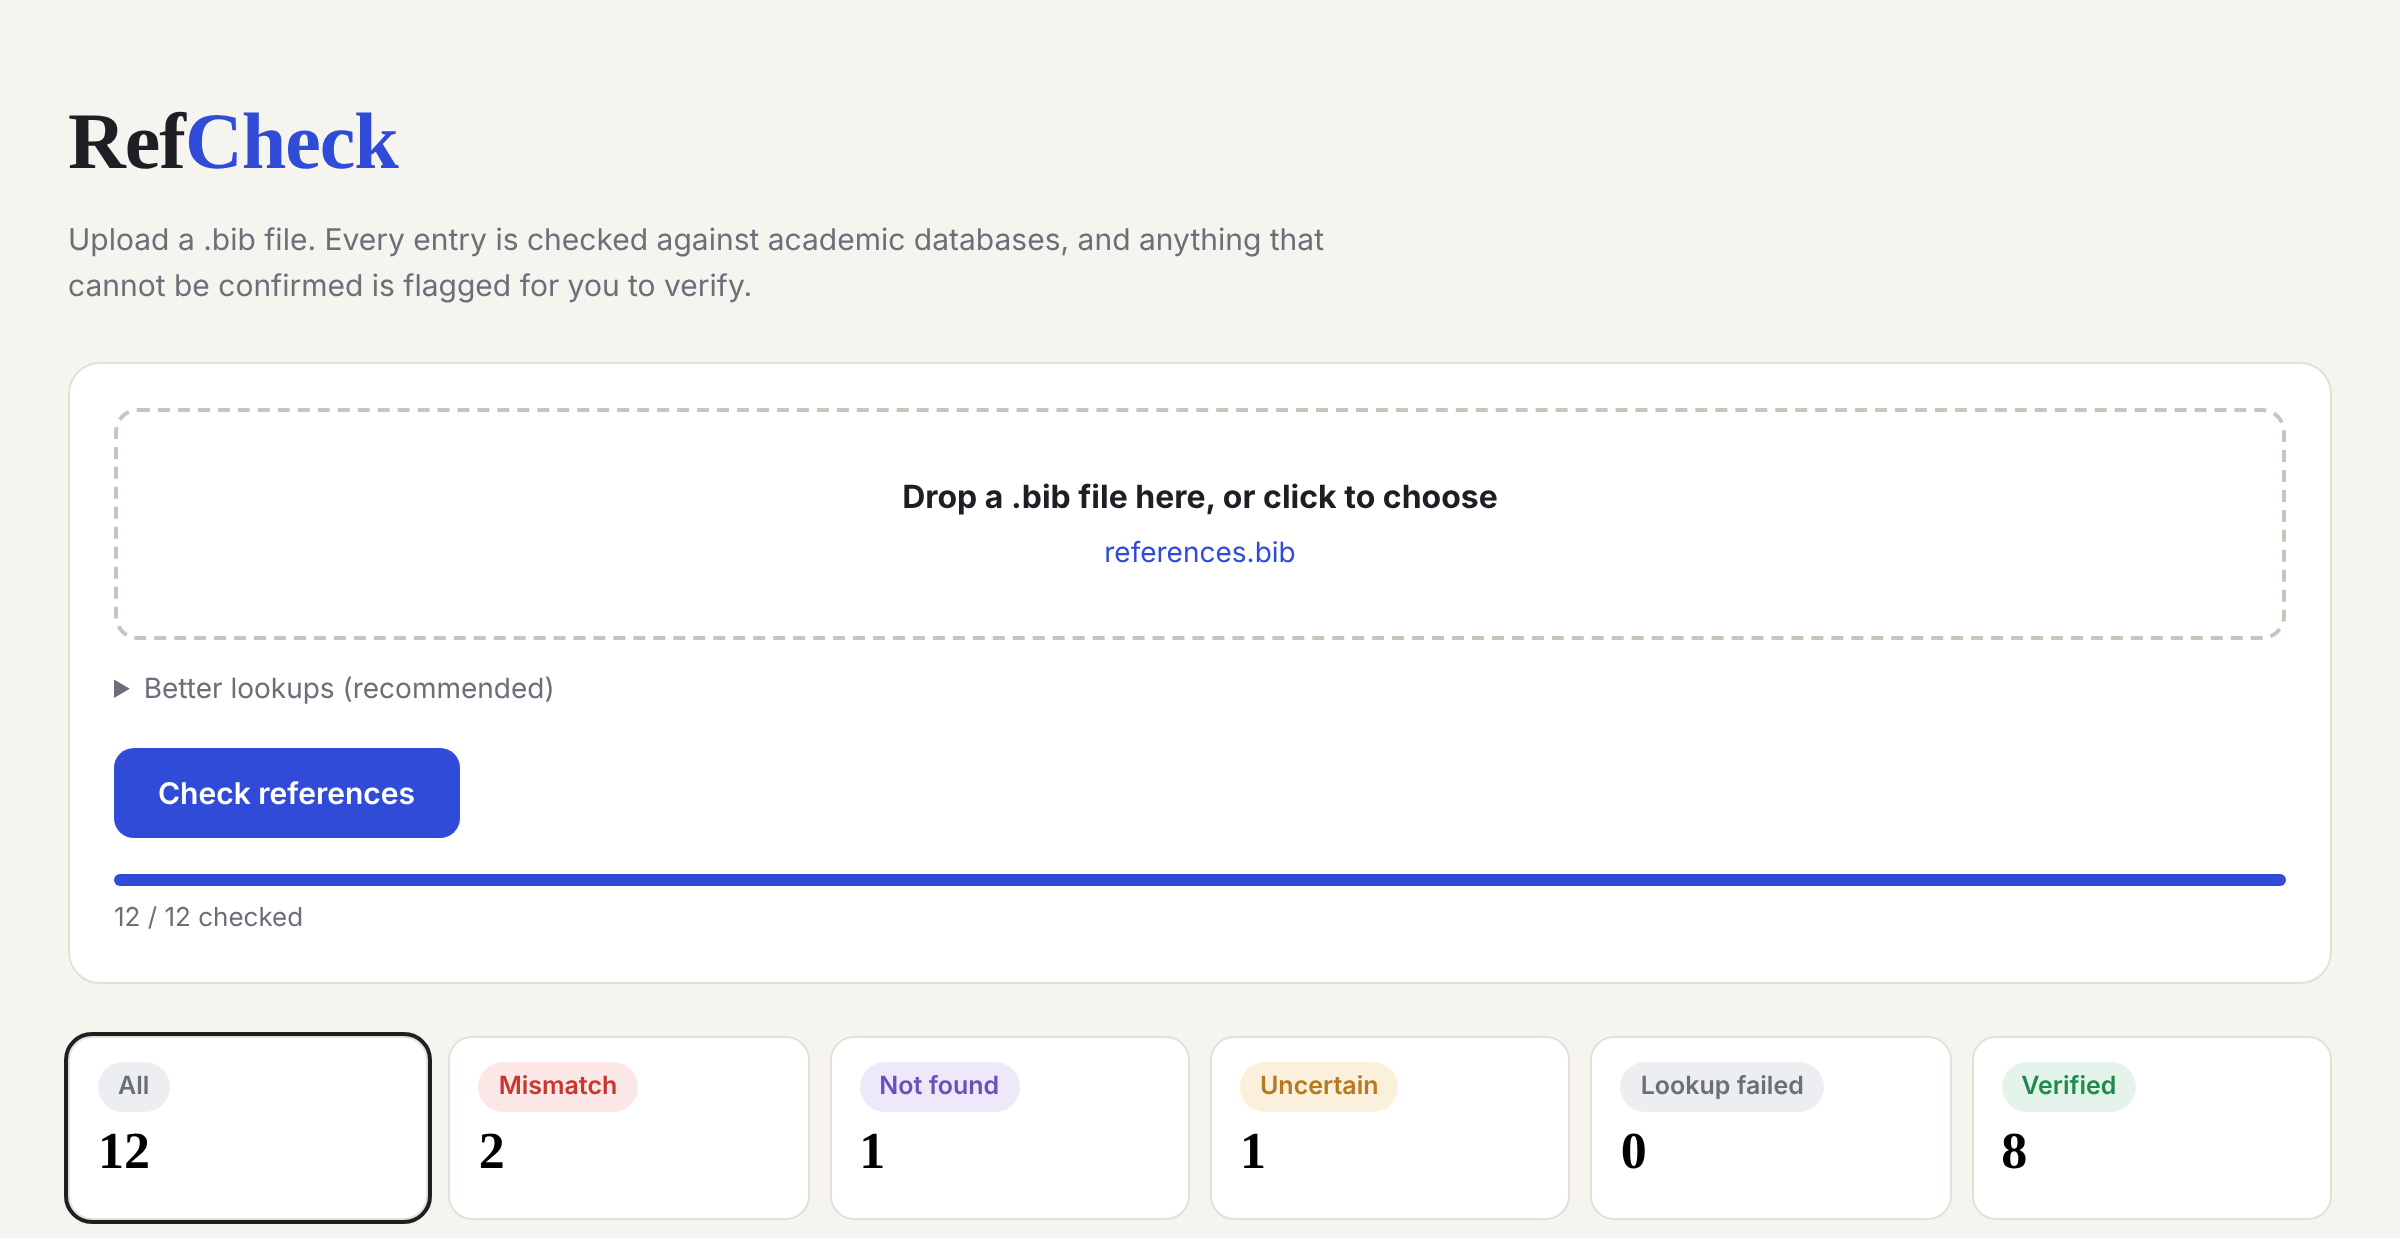
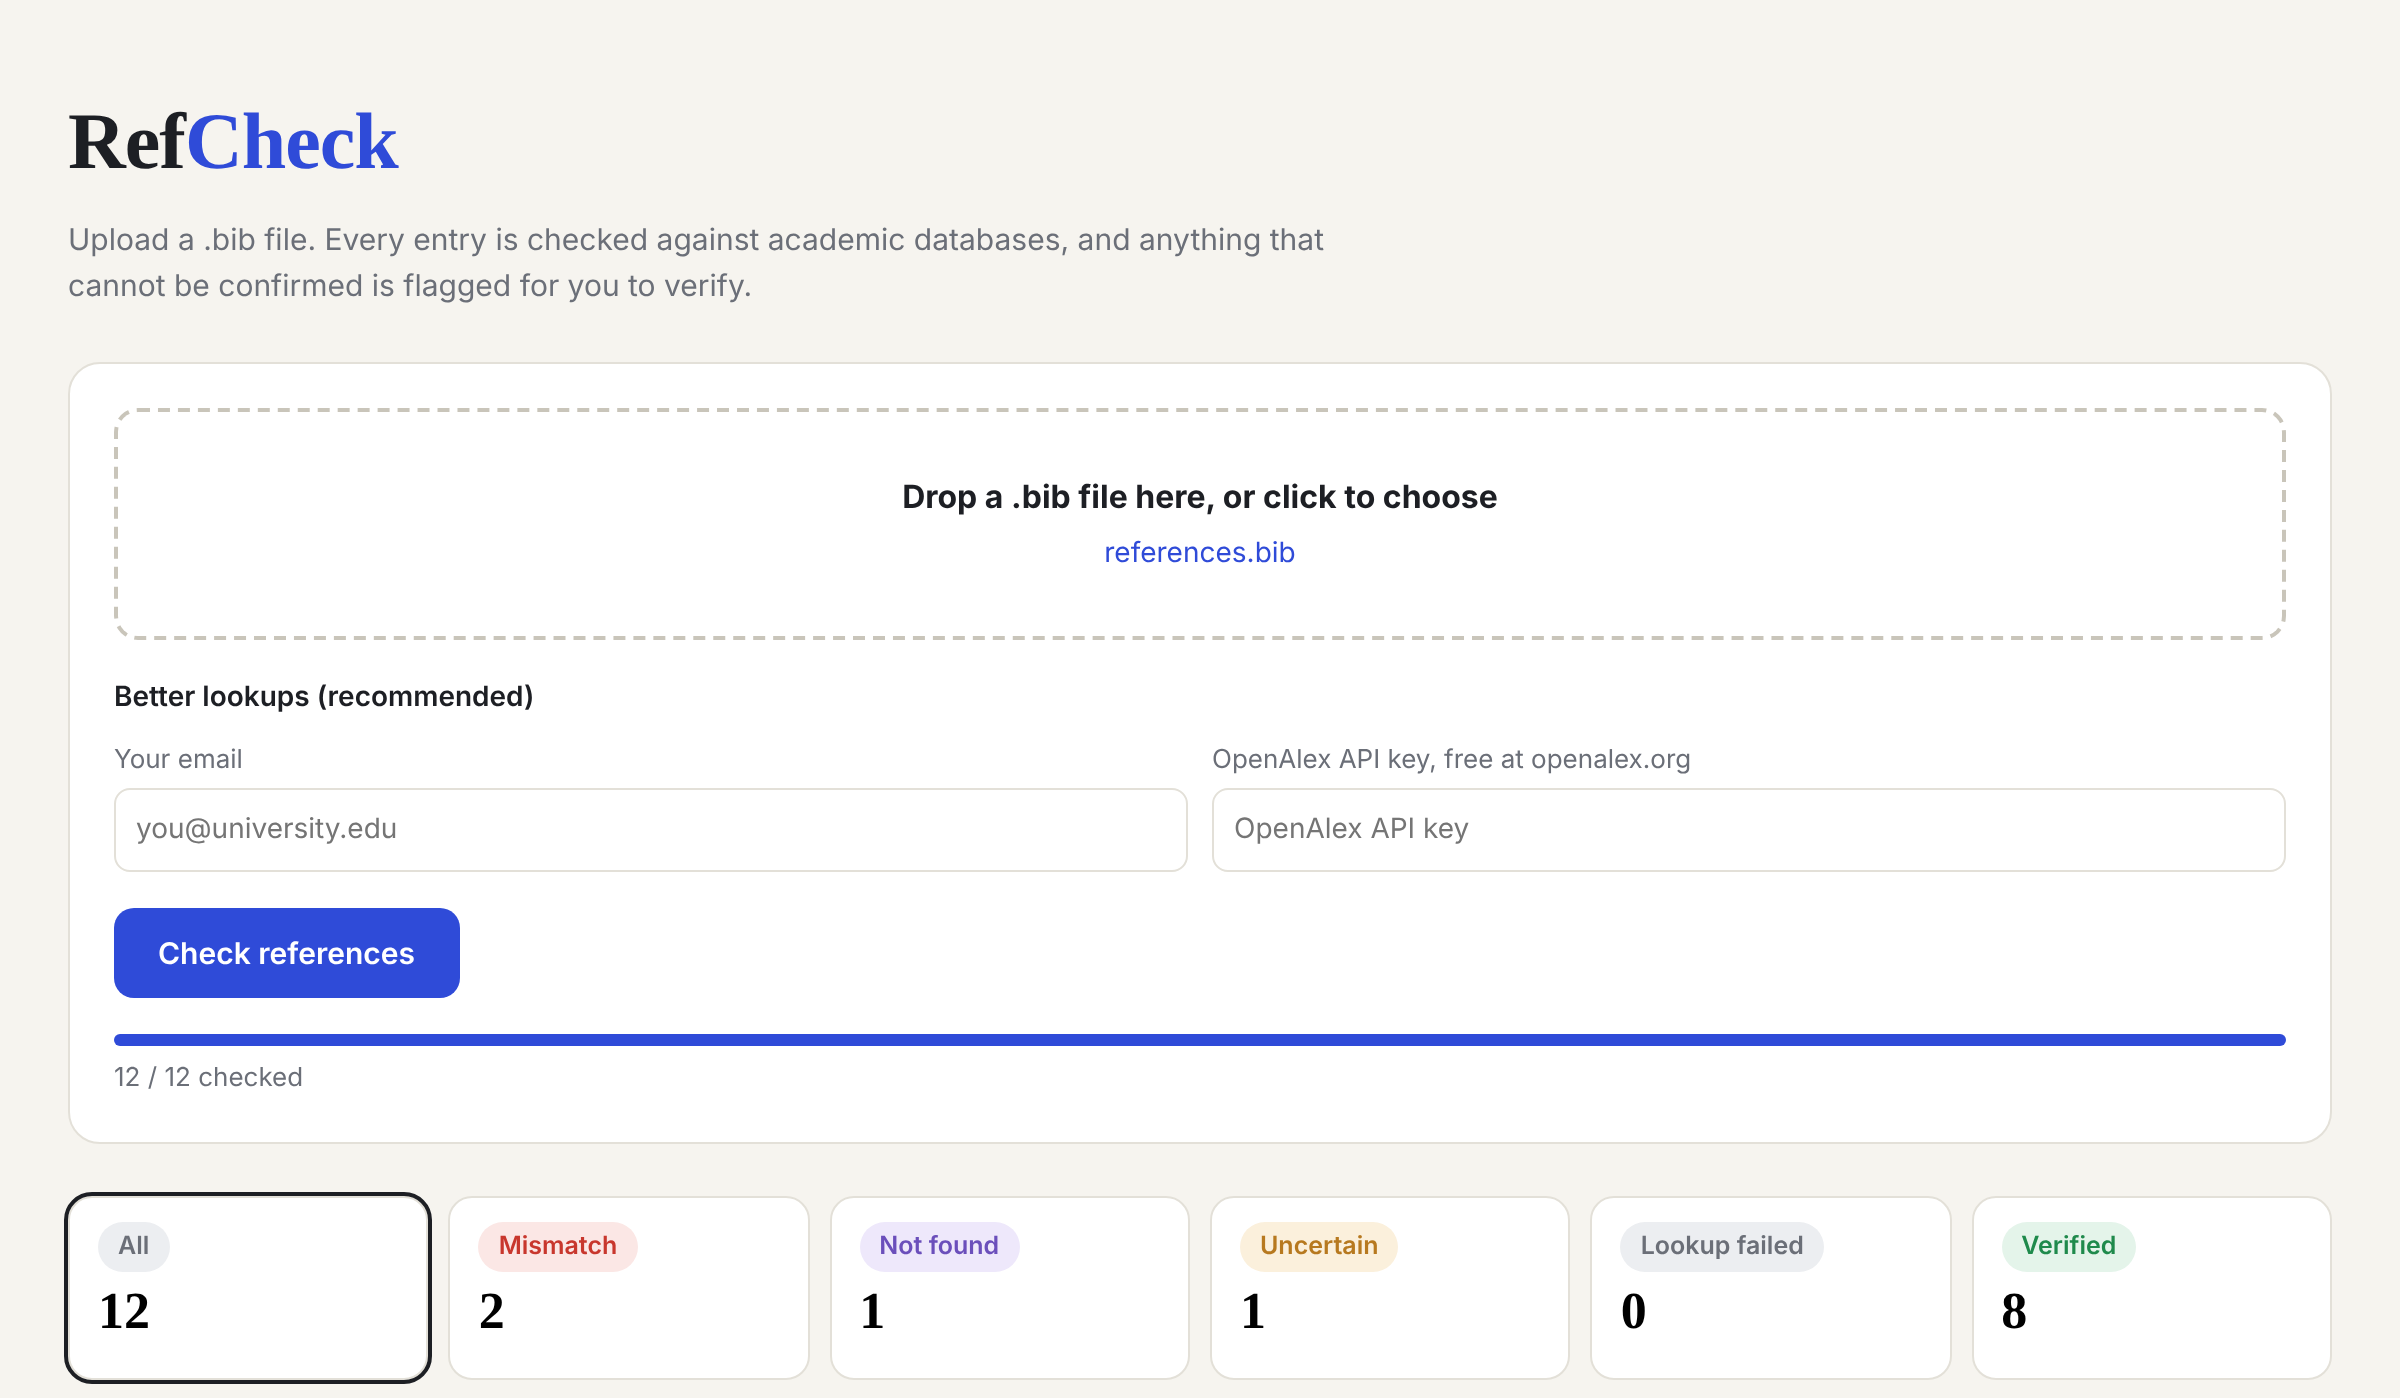
Update RefCheck

diff --git a/index.html b/index.html
@@ -31,6 +31,8 @@
   summary{cursor:pointer;color:var(--muted);font-size:14px}
   textarea{width:100%;min-height:140px;margin-top:10px;border:1px solid var(--line);border-radius:10px;padding:12px;
     font:13px/1.45 ui-monospace,SFMono-Regular,Menlo,monospace;resize:vertical}
+  #optBox{margin-top:18px}
+  .optTitle{font-size:14px;font-weight:600;color:var(--ink)}
   .opts{display:grid;grid-template-columns:1fr 1fr;gap:12px;margin-top:10px}
   .opts label{display:flex;flex-direction:column;gap:4px;font-size:13px;color:var(--muted)}
   .opts input{border:1px solid var(--line);border-radius:8px;padding:9px 10px;font:inherit;font-size:14px;color:var(--ink)}
@@ -91,13 +93,13 @@
       <div class="fname" id="fname"></div>
       <input type="file" id="file" accept=".bib,.bibtex,.txt" hidden>
     </div>
-    <details id="optBox">
-      <summary data-i18n="options"></summary>
+    <div id="optBox">
+      <div class="optTitle" data-i18n="options"></div>
       <div class="opts">
         <label><span data-i18n="mailto"></span><input id="mailto" type="email" placeholder="you@university.edu" autocomplete="email"></label>
         <label><span data-i18n="oakey"></span><input id="oakey" type="text" placeholder="OpenAlex API key" autocomplete="off"></label>
       </div>
-    </details>
+    </div>
     <div class="row">
       <button class="btn" id="start" data-i18n="start"></button>
     </div>
